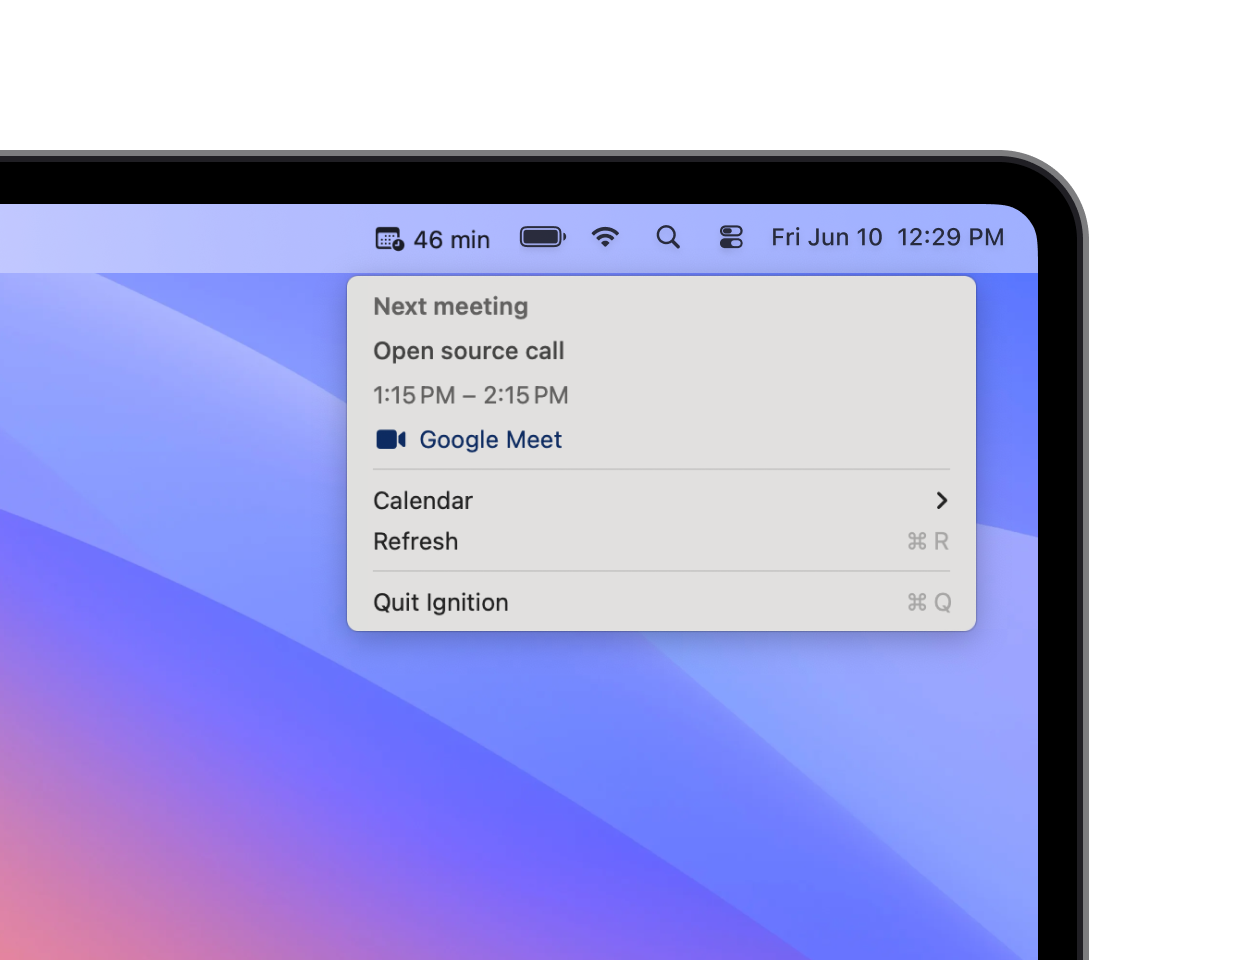
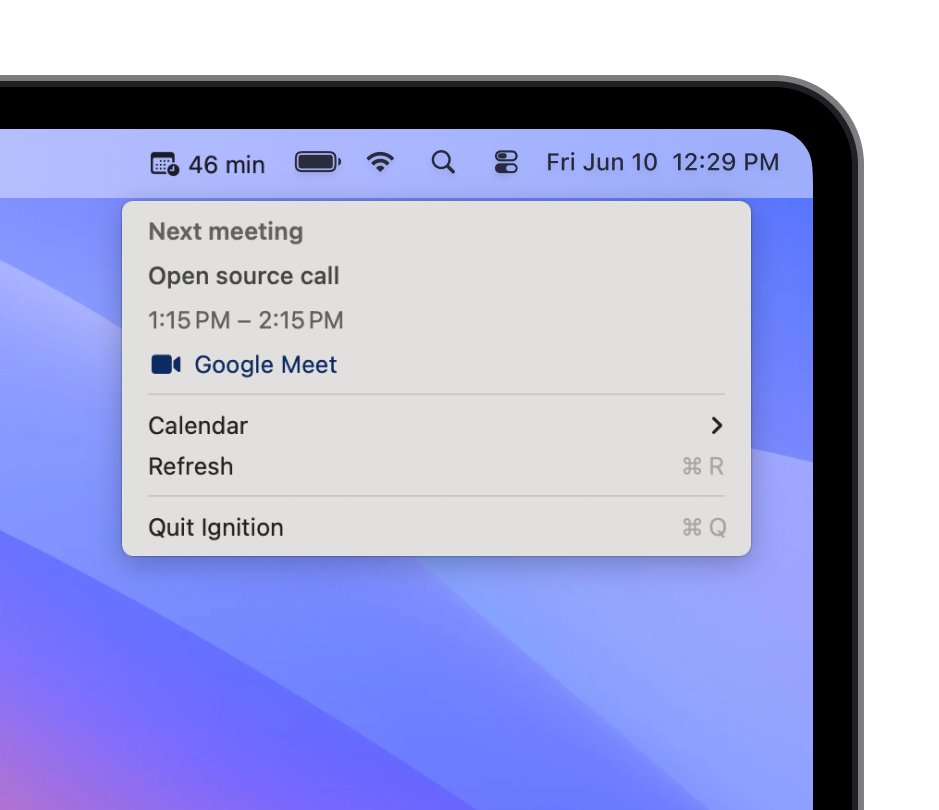
tweak layout and text

diff --git a/src/styles/global.css b/src/styles/global.css
@@ -42,7 +42,7 @@ body {
   align-items: center;
   justify-content: center;
   text-align: center;
-  padding: 6rem 1.5rem 4rem;
+  padding: 4rem 1.5rem 4rem;
   gap: 1.5rem;
 }
 
@@ -221,6 +221,12 @@ footer {
 }
 
 .setup {
+  margin: 1rem 0;
+  font-size: clamp(1rem, 2vw, 1.2rem);
   max-width: 50%;
+}
+
+.setup p {
   margin: 1rem auto;
+  line-height: 1.6;
 }
